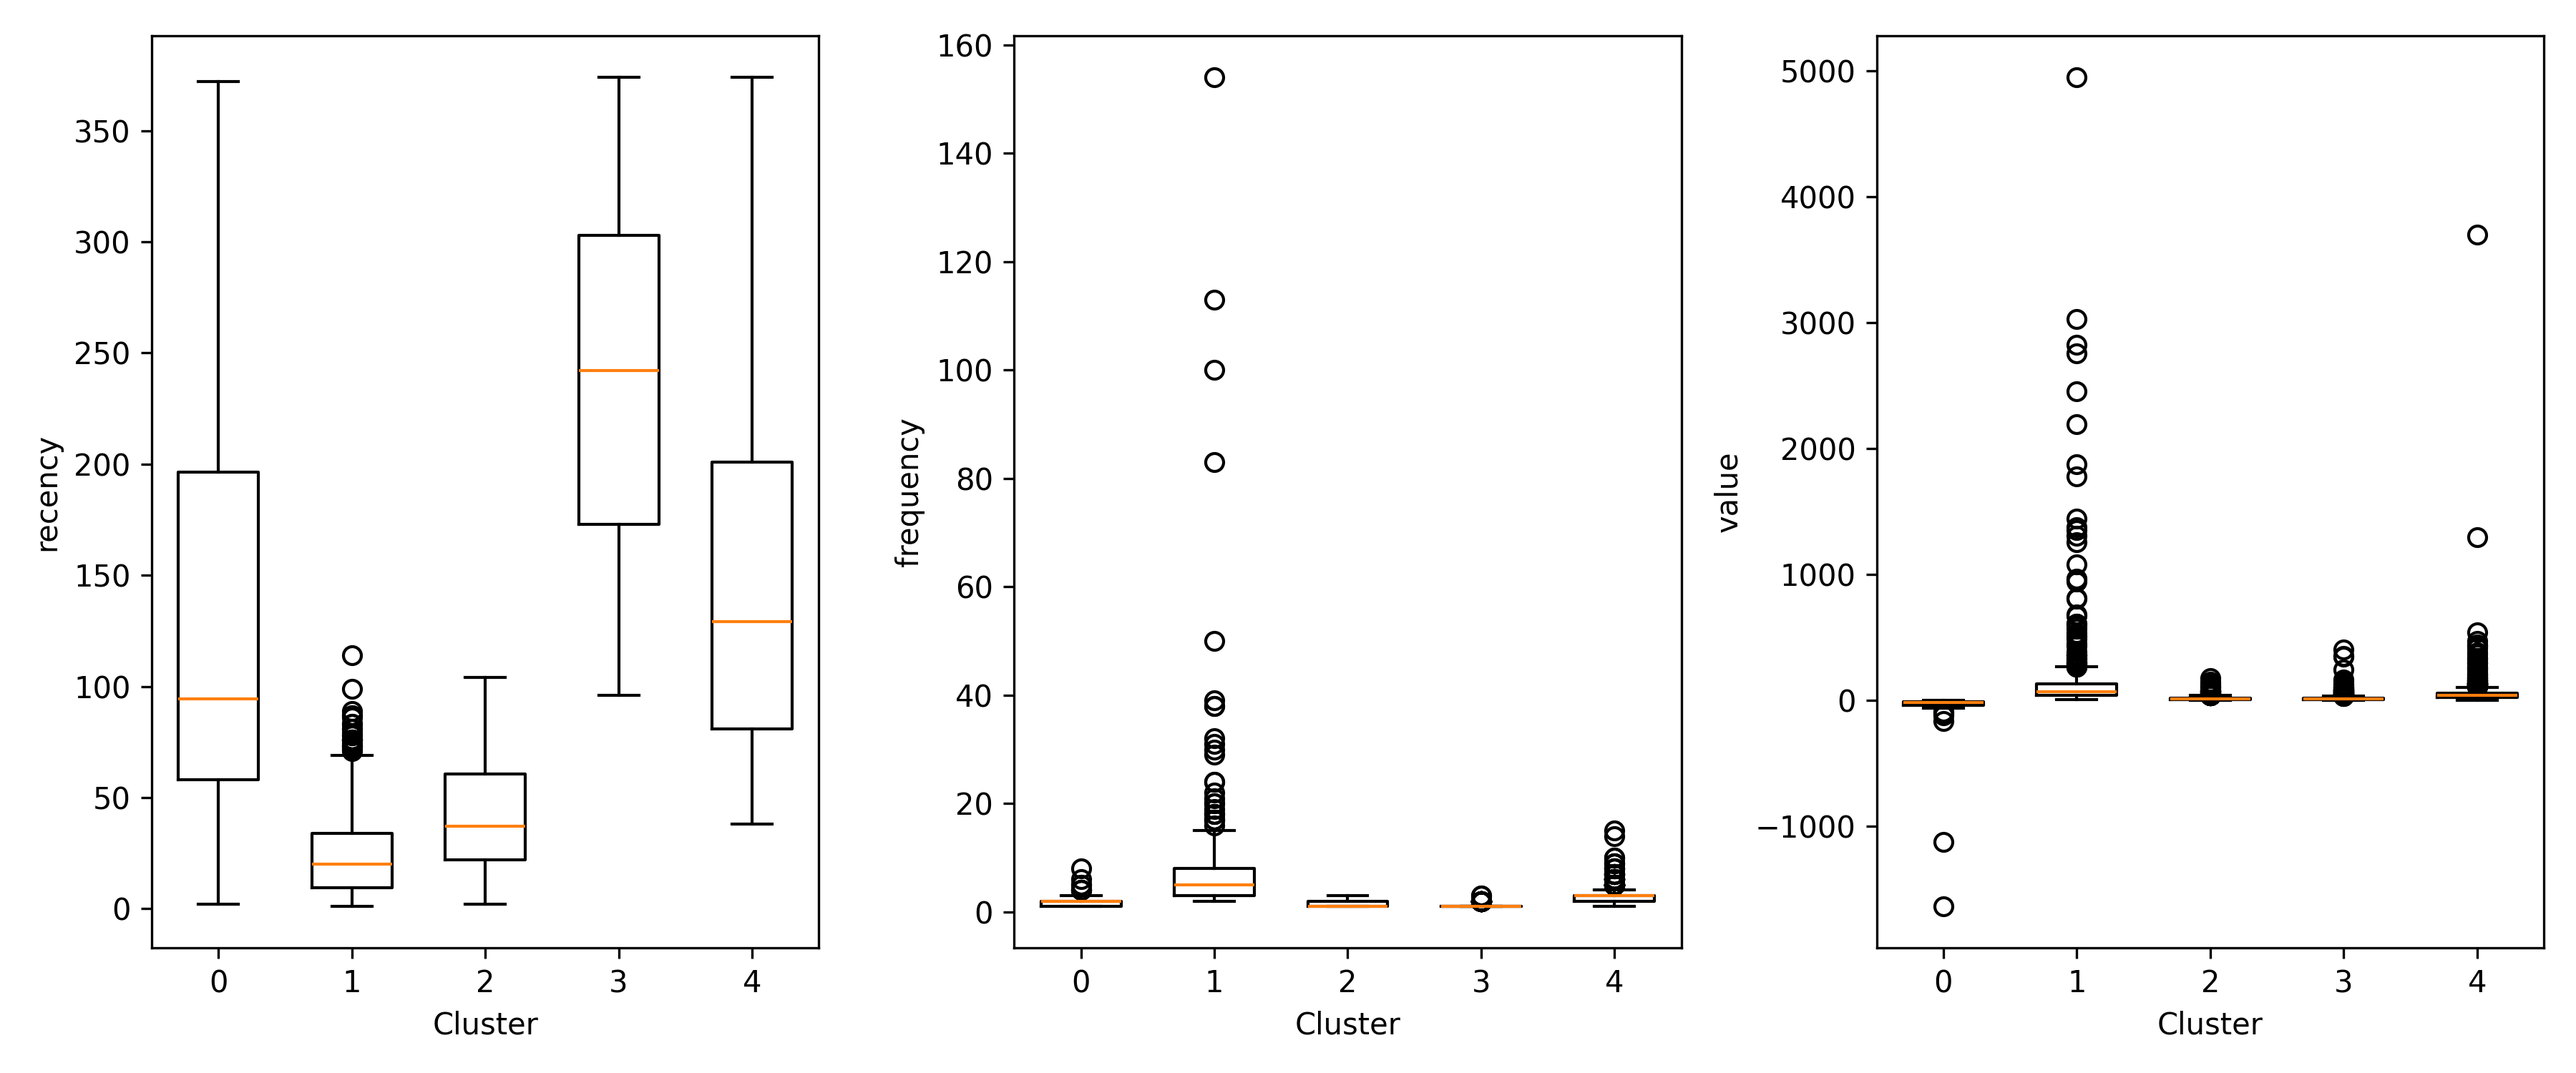
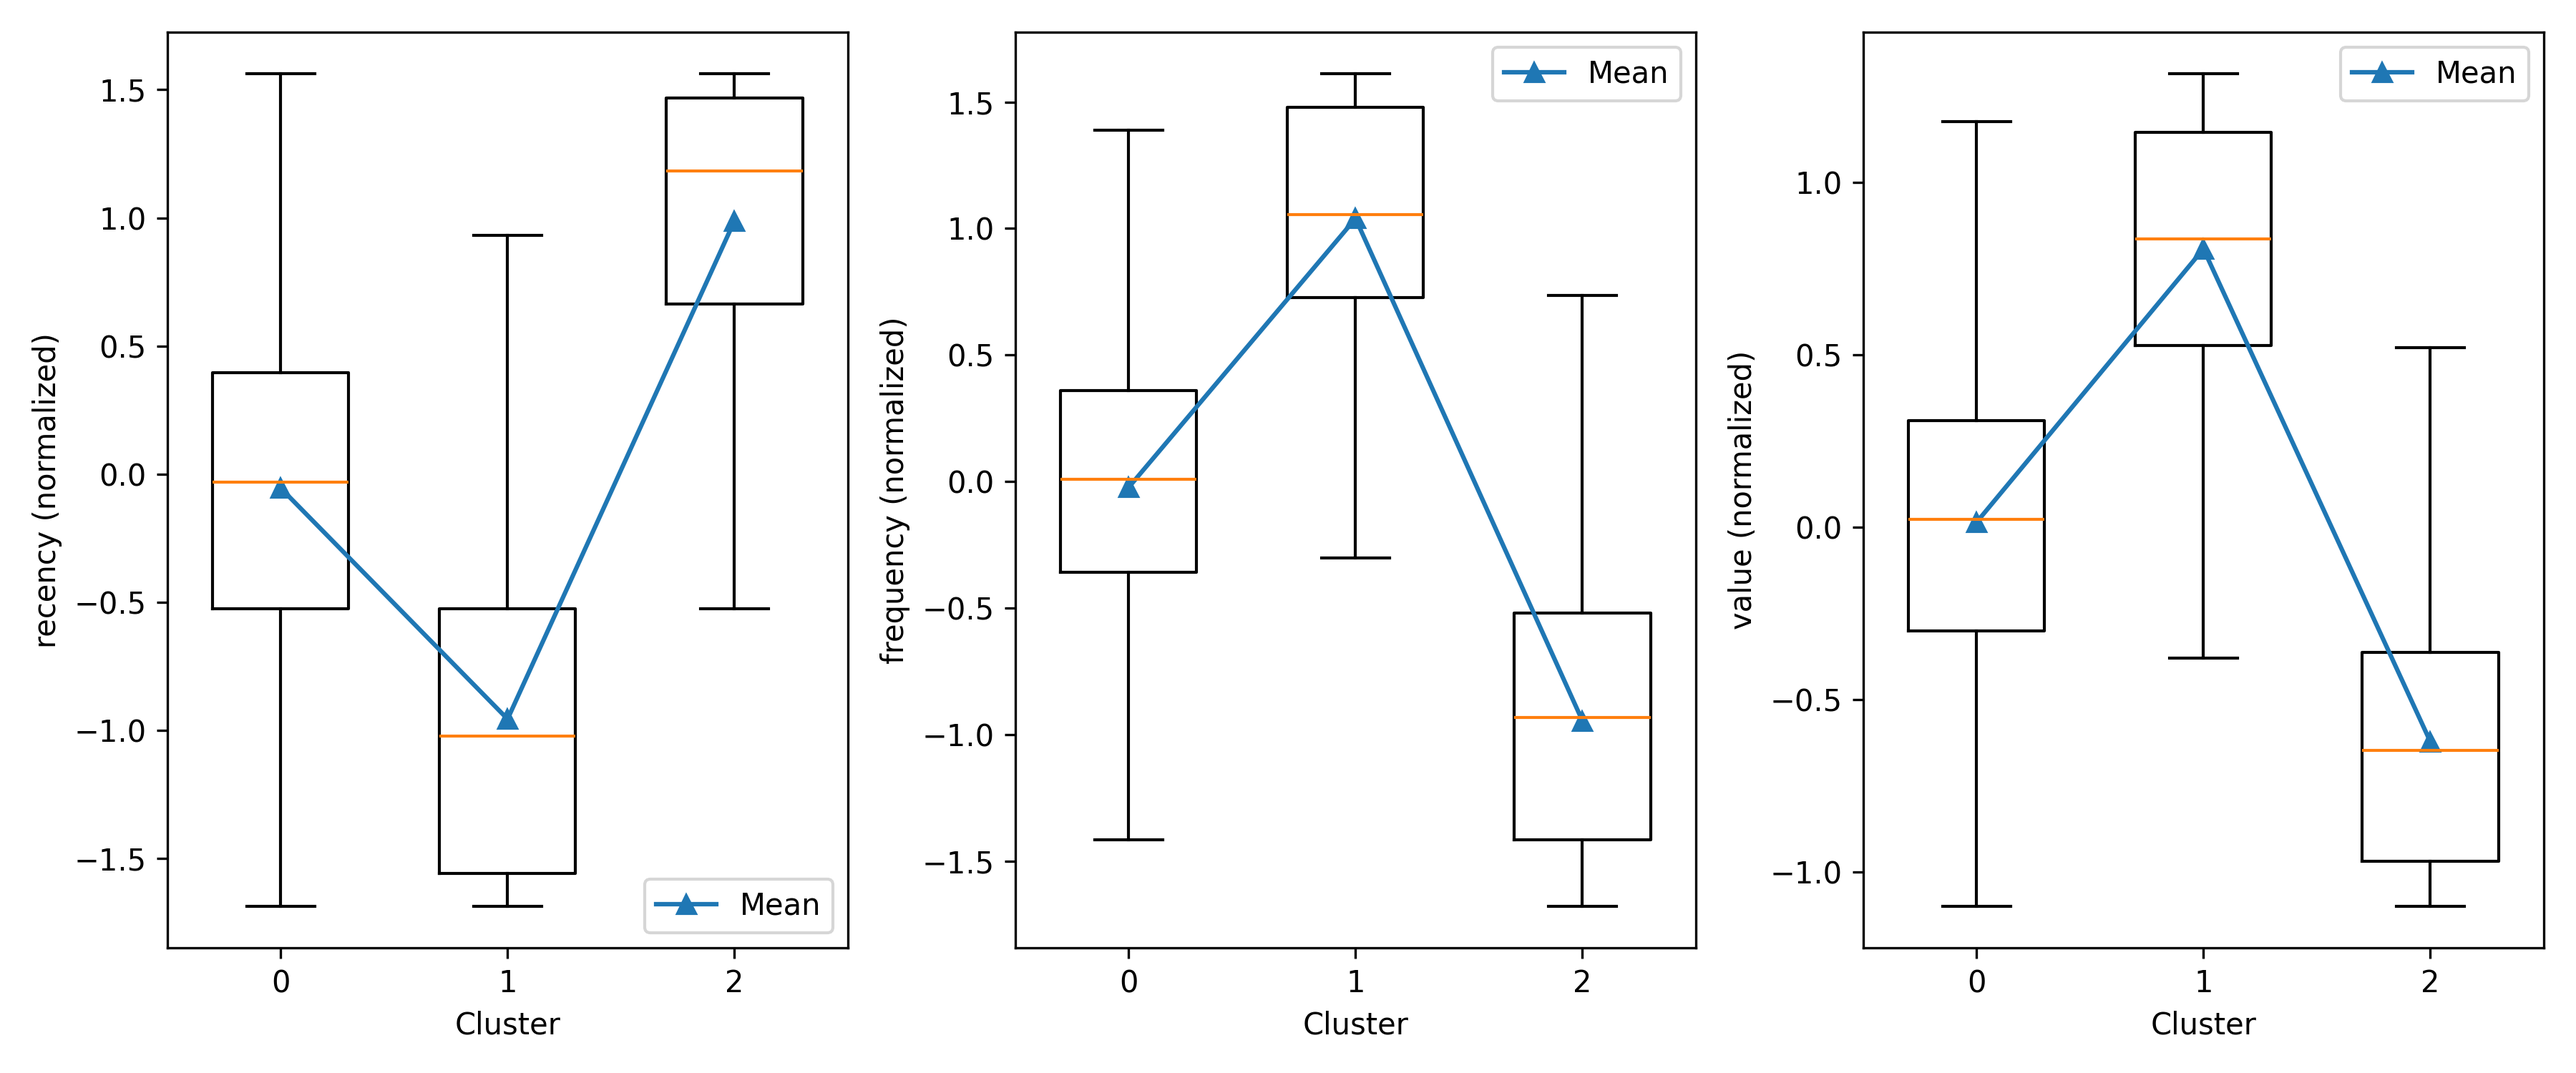
evaluated the results and distinguished the customer groups

diff --git a/CustomerSegmentation/src/evaluation.py b/CustomerSegmentation/src/evaluation.py
@@ -38,22 +38,45 @@ def evaulate_groups(data, labels):
     }).round(2)
     return cunclusion_data
 
-def visualize_boxplots(data, labels, show=True):
-    fig, axes = plt.subplots(1, len(data.columns) - 1, figsize=(12, 5))
-    data["cluster"] = labels
-    
-    feature_cols = [col for col in data.columns if col != "cluster"]
+def visualize_boxplots(data, labels, preprocessor=None, clip_percentile=(5, 95), show_fliers=False, show=True):
+    feature_cols = ["recency", "frequency", "value"]
+
+    # apply preprocessing 
+    if preprocessor is not None:
+        data_transformed = preprocessor.fit_transform(data[feature_cols])
+        data_plot = data.copy()
+        for i, col in enumerate(feature_cols):
+            data_plot[col] = data_transformed[:, i]
+    else:
+        data_plot = data.copy()
+
+    # clip outliers 
+    if clip_percentile is not None:
+        for col in feature_cols:
+            lower = np.percentile(data_plot[col], clip_percentile[0])
+            upper = np.percentile(data_plot[col], clip_percentile[1])
+            data_plot[col] = data_plot[col].clip(lower, upper)
+
+    fig, axes = plt.subplots(1, len(feature_cols), figsize=(12, 5))
+    data_plot["cluster"] = labels
+
     for ax, col in zip(axes, feature_cols):
         positions = []
-        for cluster in sorted(np.unique(labels)):
-            df = data[data["cluster"] == cluster]
-            bp = ax.boxplot(df[col], positions=[cluster], widths=0.6)
+        means = []
+        labels = sorted(np.unique(labels))
+        for cluster in labels:
+            df = data_plot[data_plot["cluster"] == cluster]
+            bp = ax.boxplot(df[col], positions=[cluster], widths=0.6, showfliers=show_fliers)
+            mean = np.mean(df[col])
+            means.append(mean)
             positions.append(cluster)
+        ax.plot(labels, means, marker='^', label="Mean")
         ax.set_xticks(positions)
         ax.set_xticklabels(positions)
         ax.set_xlabel("Cluster")
-        ax.set_ylabel(col)
-    
+        ax.set_ylabel(col + (" (normalized)" if preprocessor else ""))
+        ax.legend()
+
     fig.tight_layout()
     fig.savefig("figures/boxplots.png", dpi=300)
 

diff --git a/CustomerSegmentation/main.py b/CustomerSegmentation/main.py
@@ -15,14 +15,14 @@ MODEL_TYPE = "kmeans"
 data = load_data()
 
 # sample only few, so testing becomes faster (remove for final model)
-data = data.sample(10000, random_state=50)
+# data = data.sample(10000, random_state=50)
 
 # process the data into a dataframe, that gives customer specified information (recency, frequency, value)
 data = preprocessing(data)
-eval.visualize_data(data, show=False)
+# eval.visualize_data(data, show=False)
 
 # build and fit model
-model = build_model(build_preprocessor(data), model_type=MODEL_TYPE, clusters=5)  # amount of clusters found in elbow experiment
+model = build_model(build_preprocessor(data), model_type=MODEL_TYPE, clusters=3)  # amount of clusters found in elbow experiment
 model.fit(data)
 
 labels = model.predict(data)
@@ -35,9 +35,16 @@ eval.visualize_clusters(ax, data, labels, show=False)
 # evaluate the results and see how the groups differ
 eval.evaulate_groups(data, labels)
 
-# the boxplots are prone by outliers
-# the data should be normalized before making the boxplots and maybe consider removing outliers
-eval.visualize_boxplots(data, labels, show=True)
+# the boxplots now use the normalized data and clip outliers
+preprocessor = build_preprocessor(data)
+eval.visualize_boxplots(data, labels, preprocessor=preprocessor, show=True)
 
-
+# finally the customers can be split up in three different groups. The first group
+# has normaldistributed behavior in all three categories, while the second has a low recency
+# but has bought items more frequently and with more value. The last group
+# has a high recency, but has bought for less money and less frequent.
+# This might mean that the last group probably are churned customers,
+# since they have not left much money and have not bought items for a longer
+# time. The second group are most likely customers who come and order
+# frequent. The first group are the rest, which is the average customer.
 

diff --git a/CustomerSegmentation/experiments/experiment2_elbow.py b/CustomerSegmentation/experiments/experiment2_elbow.py
@@ -12,7 +12,7 @@ from src.preprocessing import preprocessing, build_preprocessor
 data = load_data()
 data = data.sample(10000, random_state=50)
 
-n_clusters = np.arange(1, 20)
+n_clusters = np.arange(1, 10)
 intertias = []
 data = preprocessing(data)
 
@@ -34,4 +34,7 @@ ax.legend()
 fig.savefig("figures/elbow.png", dpi=300)
 plt.show()
 
-# this experiment shows that 5 clusters is a optimal choice here
+# this experiment shows that 3 clusters is a optimal choice here
+# one could also argue 4 or 5, but it has been observed that kmeans 
+# with this amount of clusters is in consistent with the grouping
+# also the cluster visulization in main.py suggets 3

diff --git a/CustomerSegmentation/src/preprocessing.py b/CustomerSegmentation/src/preprocessing.py
@@ -34,7 +34,7 @@ def build_preprocessor(X):
     # data
     col_transformer = ColumnTransformer([
         ("freq_recency", PowerTransformer(method='yeo-johnson'), ["recency", "frequency"]),
-        ("value", FunctionTransformer(lambda x: np.sign(x) * np.log1p(np.abs(x))), ["value"])
+        ("value", FunctionTransformer(lambda x: np.sign(x) * np.log1p(np.abs(x))), ["value"])  # np.log1p(x) = np.log(x + 1)
     ], remainder='passthrough')
 
     preprocessor = Pipeline([

diff --git a/CustomerSegmentation/src/models.py b/CustomerSegmentation/src/models.py
@@ -4,7 +4,7 @@ from sklearn.decomposition import PCA
 
 def build_model(preprocessor, model_type="kmeans", clusters=3):
     if model_type == "kmeans":
-        model = KMeans(clusters)
+        model = KMeans(clusters, random_state=42)
 
     pipeline = Pipeline([
         ("preprocessor", preprocessor),
